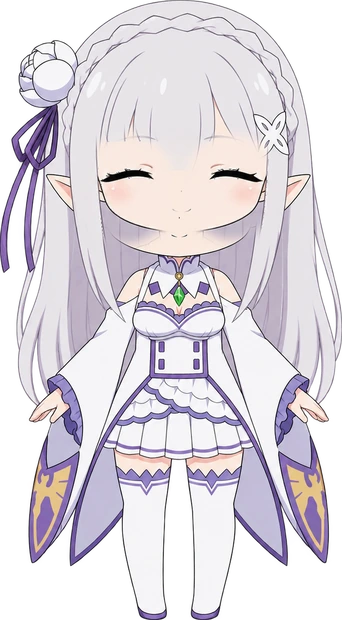
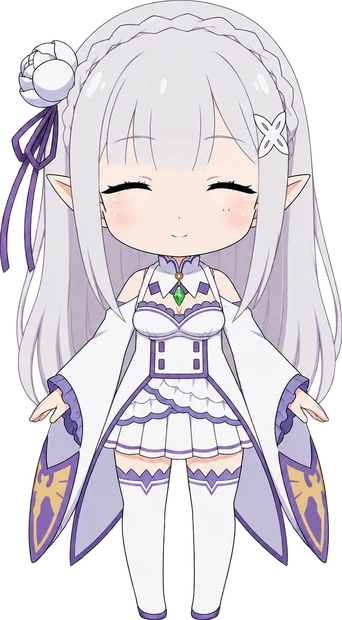
feat(pet): 闭眼只替换眼睛区域（按眼球中心配准）
- 不再替换整张脸/眉毛：掩膜 = 底图眼球形状（凸包+外扩3px+1.5px 羽化）
- 配准改回眼球中心：s=1.1210 dx=7.1 dy=-43.3（闭眼睫毛行落在睁眼虹膜位置）
- 校验：眼掩膜外差异 0 像素（脸、眉毛、头发、身体全部不动）
- fdy 旋钮已实测生效（?fdy=-5 → transform translateY(-5px)）
- v=20261030t / codeVer 20261030.18

Changed region(s): [[0.5848, 0.2145, 0.7895, 0.3984], [0.2632, 0.2145, 0.4678, 0.3984], [0.5556, 0.2452, 0.5848, 0.2758]]

diff --git a/source/js/pet.js b/source/js/pet.js
@@ -33,8 +33,8 @@
   var bubbleTimer = null, lastPath = null, raf = 0;
 
   /* ---------- 伪 2.5D：整卡透视倾斜 ---------- */
-  var ASSET_V = '?v=20261030s';
-  var PET_VER = '20261030.17';   // 内容指纹：改素材必须同步改这里，否则 CDN 7 天缓存不会更新
+  var ASSET_V = '?v=20261030t';
+  var PET_VER = '20261030.18';   // 内容指纹：改素材必须同步改这里，否则 CDN 7 天缓存不会更新
   var SPRITE_CLOSED_1X = '/images/pet/front_closed_310.webp' + ASSET_V;
   var SPRITE_CLOSED_2X = '/images/pet/front_closed_620.webp' + ASSET_V;
   var SPRITE_CLOSED_3X = '/images/pet/front_closed_930.webp' + ASSET_V;
